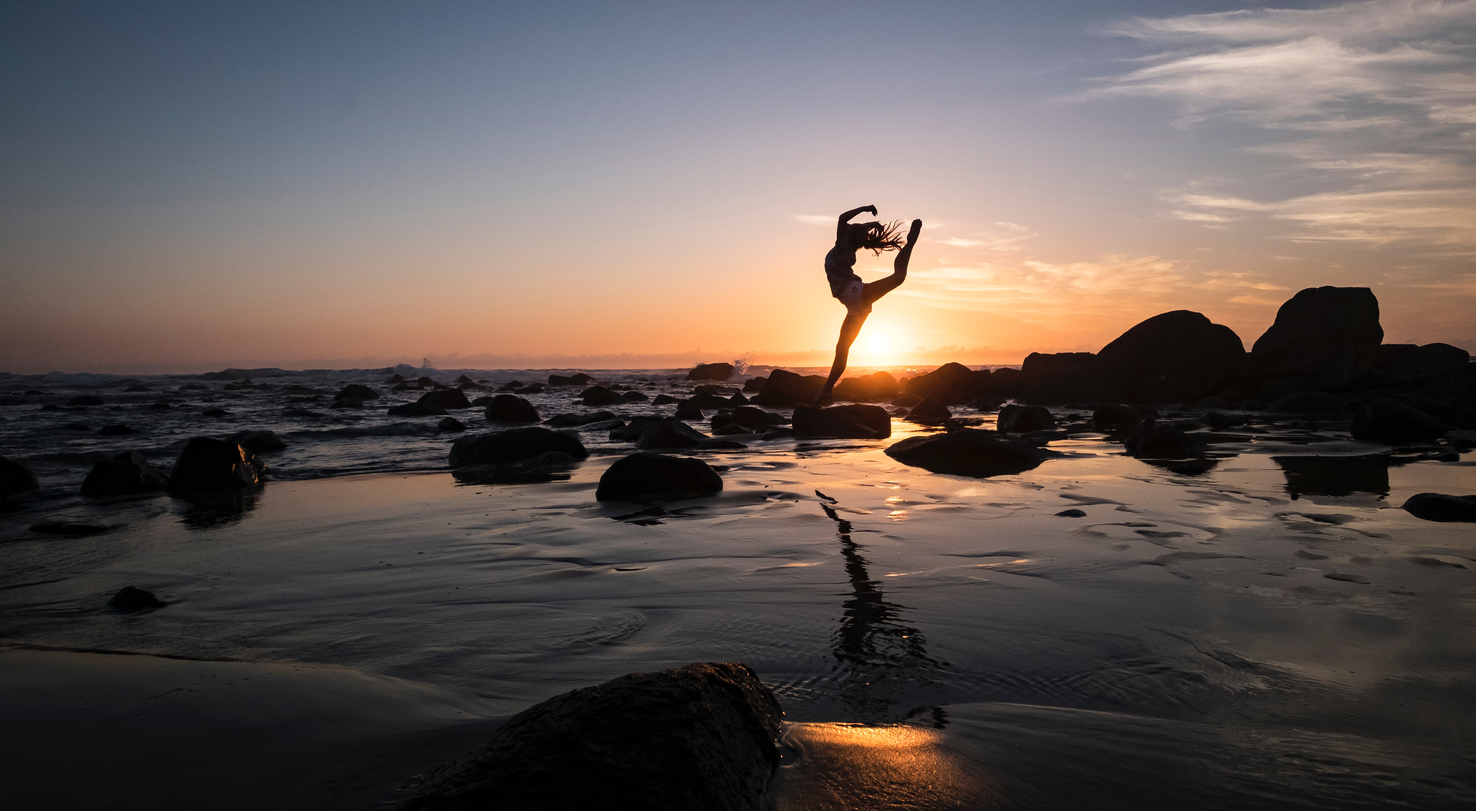
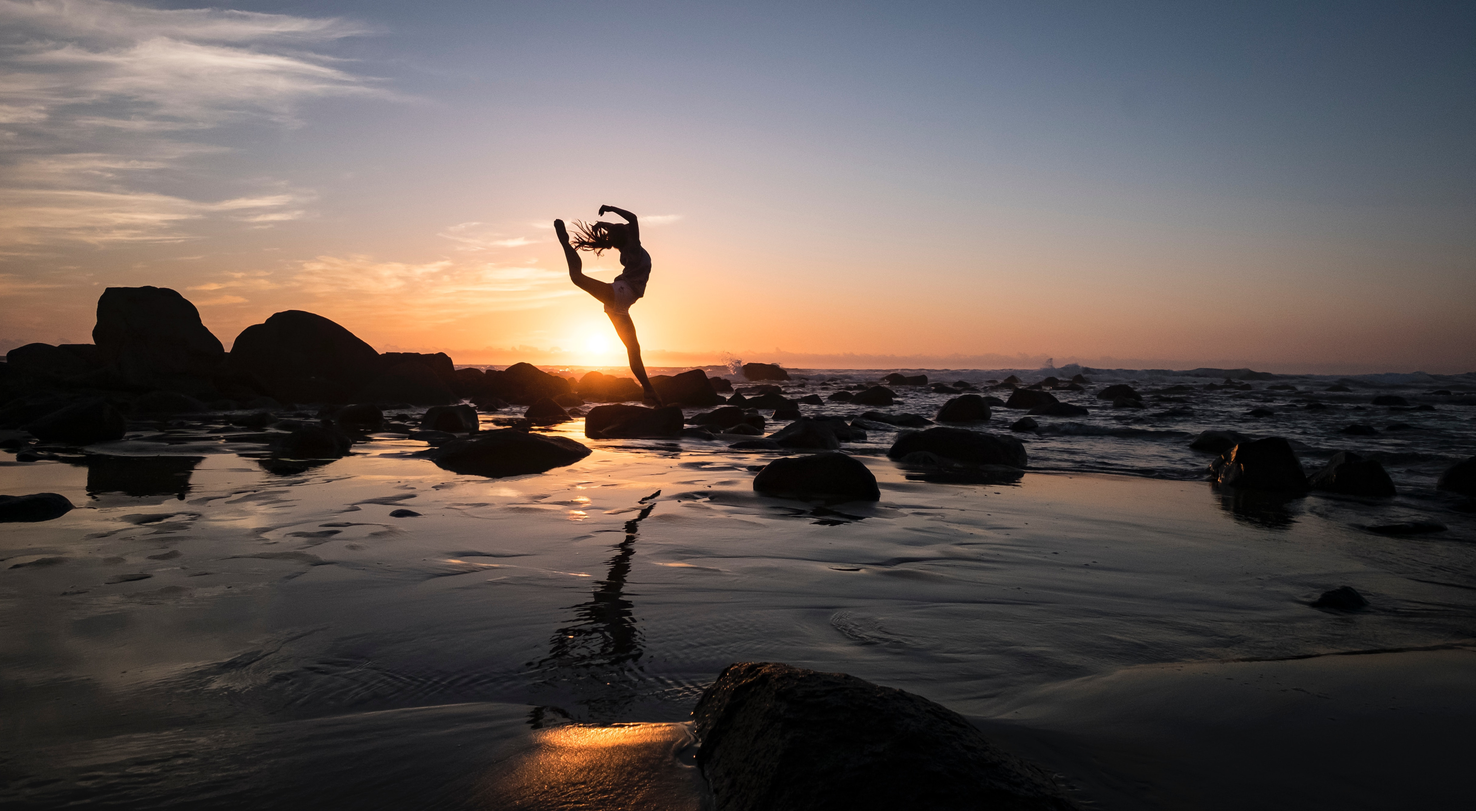
modify _header.scss

diff --git a/assets/css/layout/_header.scss b/assets/css/layout/_header.scss
@@ -87,9 +87,10 @@
   ////////////////////////////////////
   .header-health-container{
   @extend .header-pages-themes-container;
-  background-image:url("../img/article5.jpg");
+  background-image:url("../img/heath4.jpg");
+  background-position: center 0;
   div{
-    background-color: rgba(255, 127, 102, 0.2);
+    background-color: rgba(255, 127, 102, 0.5);
 
   }
   }
@@ -100,7 +101,7 @@
     @extend .header-pages-themes-container;
     background-image: url("../img/food.jpg");
     div{
-      background-color: rgba(255,205,102, 0.2);
+      background-color: rgba(255,205,102, 0.5);
 
     }
   }
@@ -111,7 +112,7 @@
     @extend .header-pages-themes-container;
     background-image: url("../img/energie.jpg");
     div{
-      background-color: rgba(102,152,255, 0.2);
+      background-color: rgba(102,152,255, 0.5);
 
     }
   }
@@ -122,7 +123,7 @@
     @extend .header-pages-themes-container;
     background-image: url("../img/jardinage.jpg");
     div{
-          background-color: rgba(108, 216, 162, 0.2);
+          background-color: rgba(108, 216, 162, 0.5);
 
     }
 

diff --git a/assets/css/index.css b/assets/css/index.css
@@ -530,24 +530,25 @@ body {
       width: 80%; }
 
 .header-health-container {
-  background-image: url("../img/article5.jpg"); }
+  background-image: url("../img/heath4.jpg");
+  background-position: center 0; }
   .header-health-container div {
-    background-color: rgba(255, 127, 102, 0.2); }
+    background-color: rgba(255, 127, 102, 0.5); }
 
 .header-food-container {
   background-image: url("../img/food.jpg"); }
   .header-food-container div {
-    background-color: rgba(255, 205, 102, 0.2); }
+    background-color: rgba(255, 205, 102, 0.5); }
 
 .header-energy-container {
   background-image: url("../img/energie.jpg"); }
   .header-energy-container div {
-    background-color: rgba(102, 152, 255, 0.2); }
+    background-color: rgba(102, 152, 255, 0.5); }
 
 .header-garden-container {
   background-image: url("../img/jardinage.jpg"); }
   .header-garden-container div {
-    background-color: rgba(108, 216, 162, 0.2); }
+    background-color: rgba(108, 216, 162, 0.5); }
 
 .main-content-pages-themes {
   display: flex;
